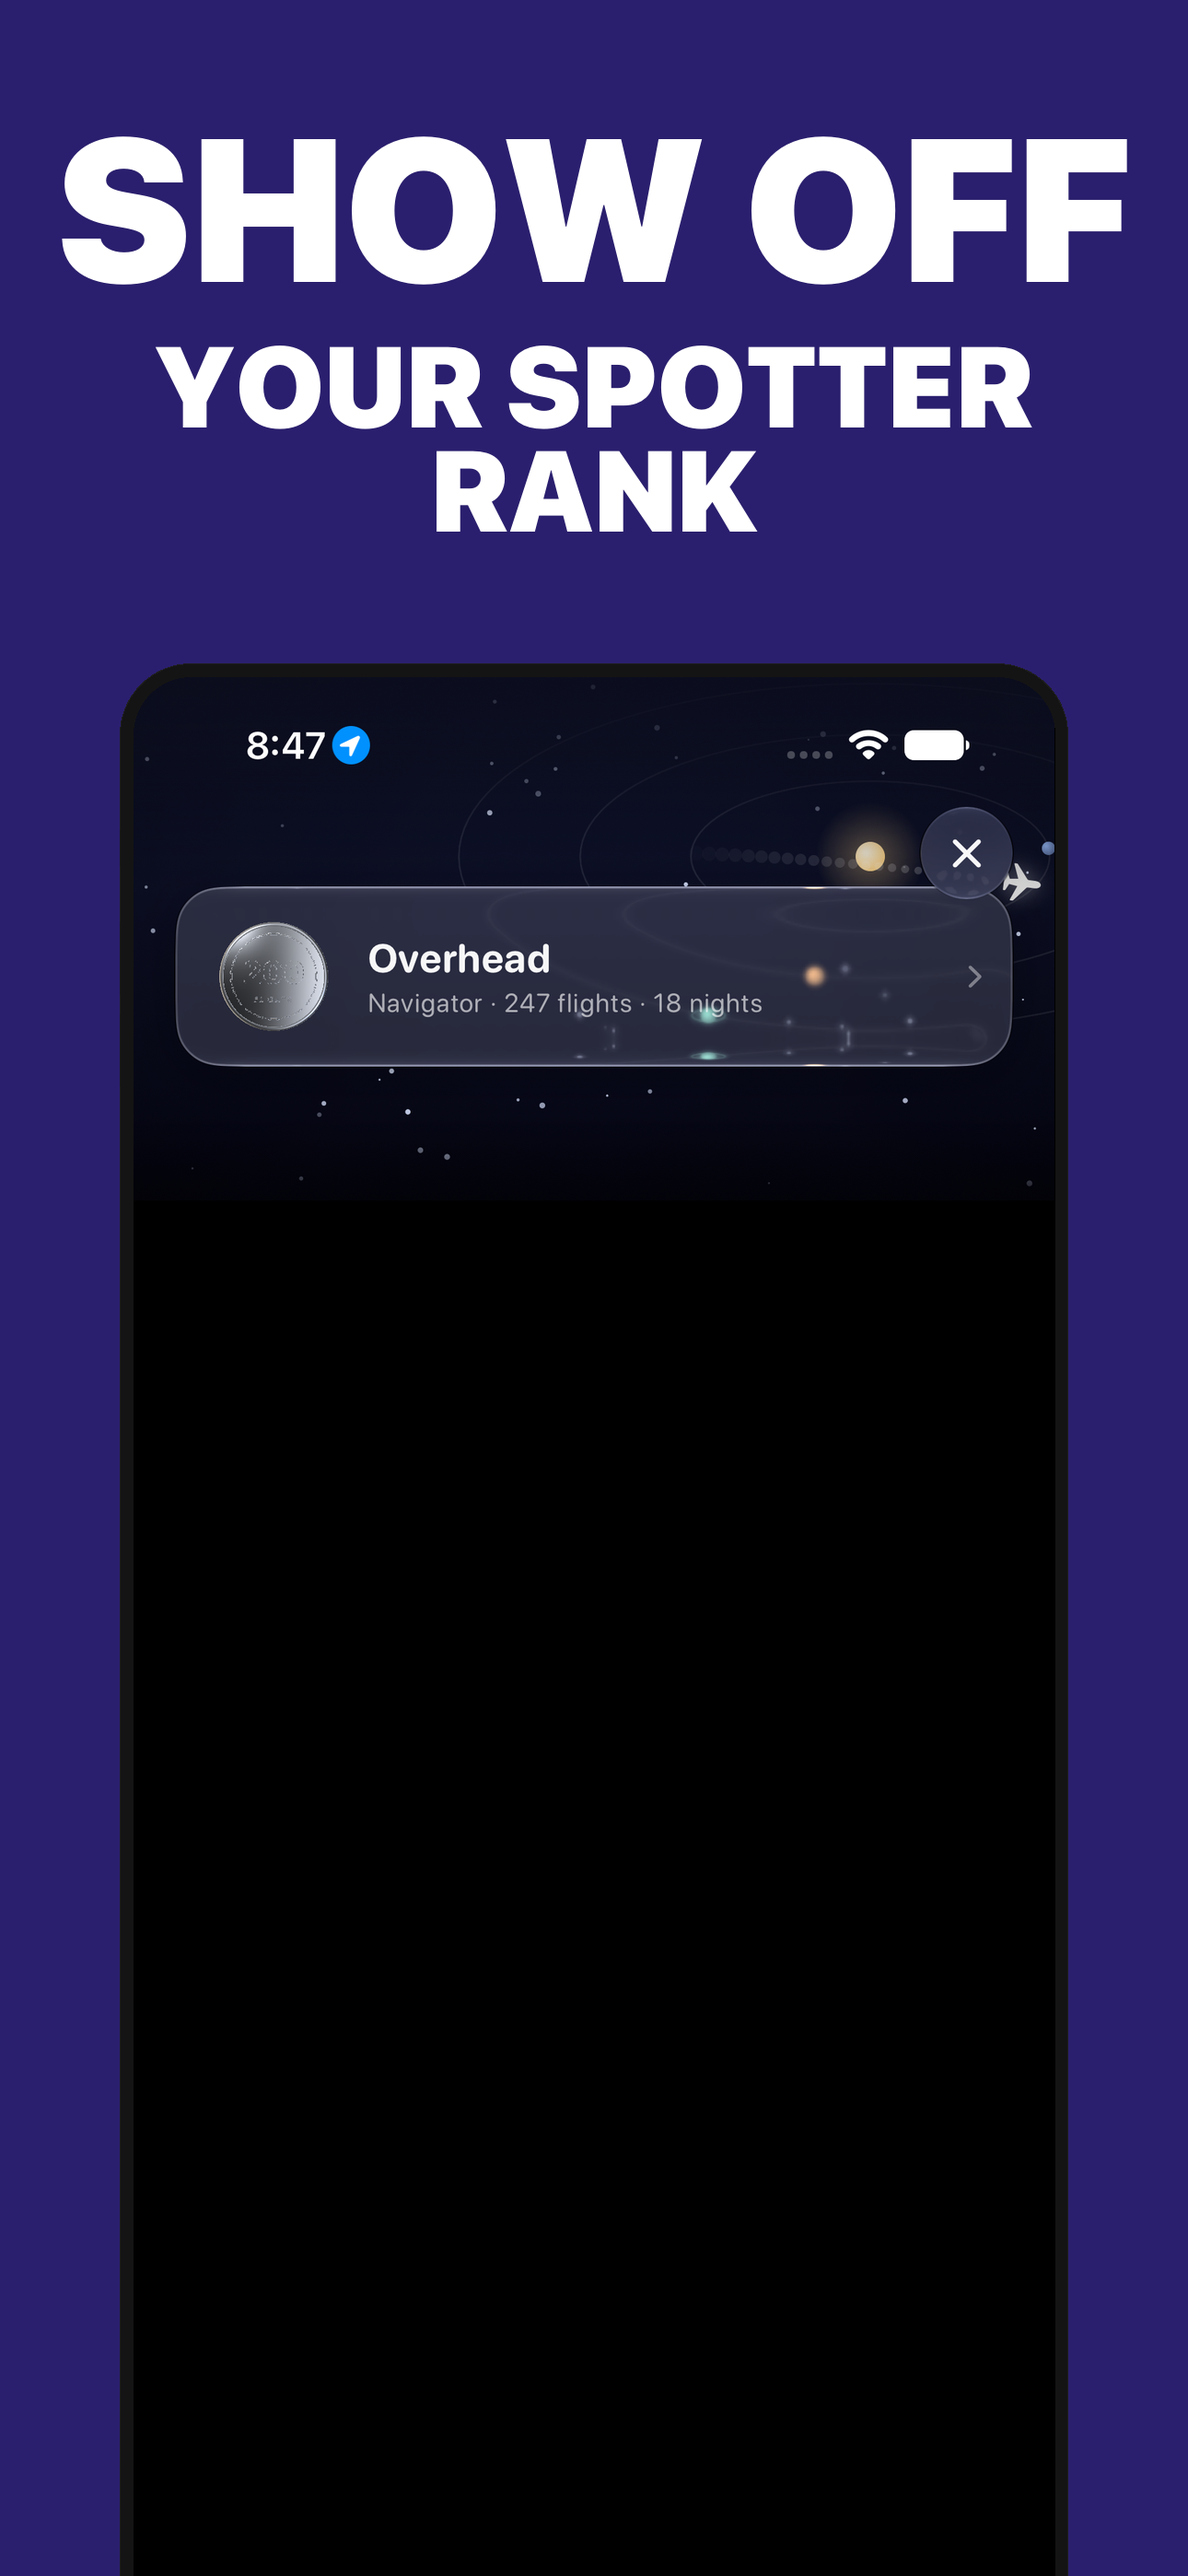
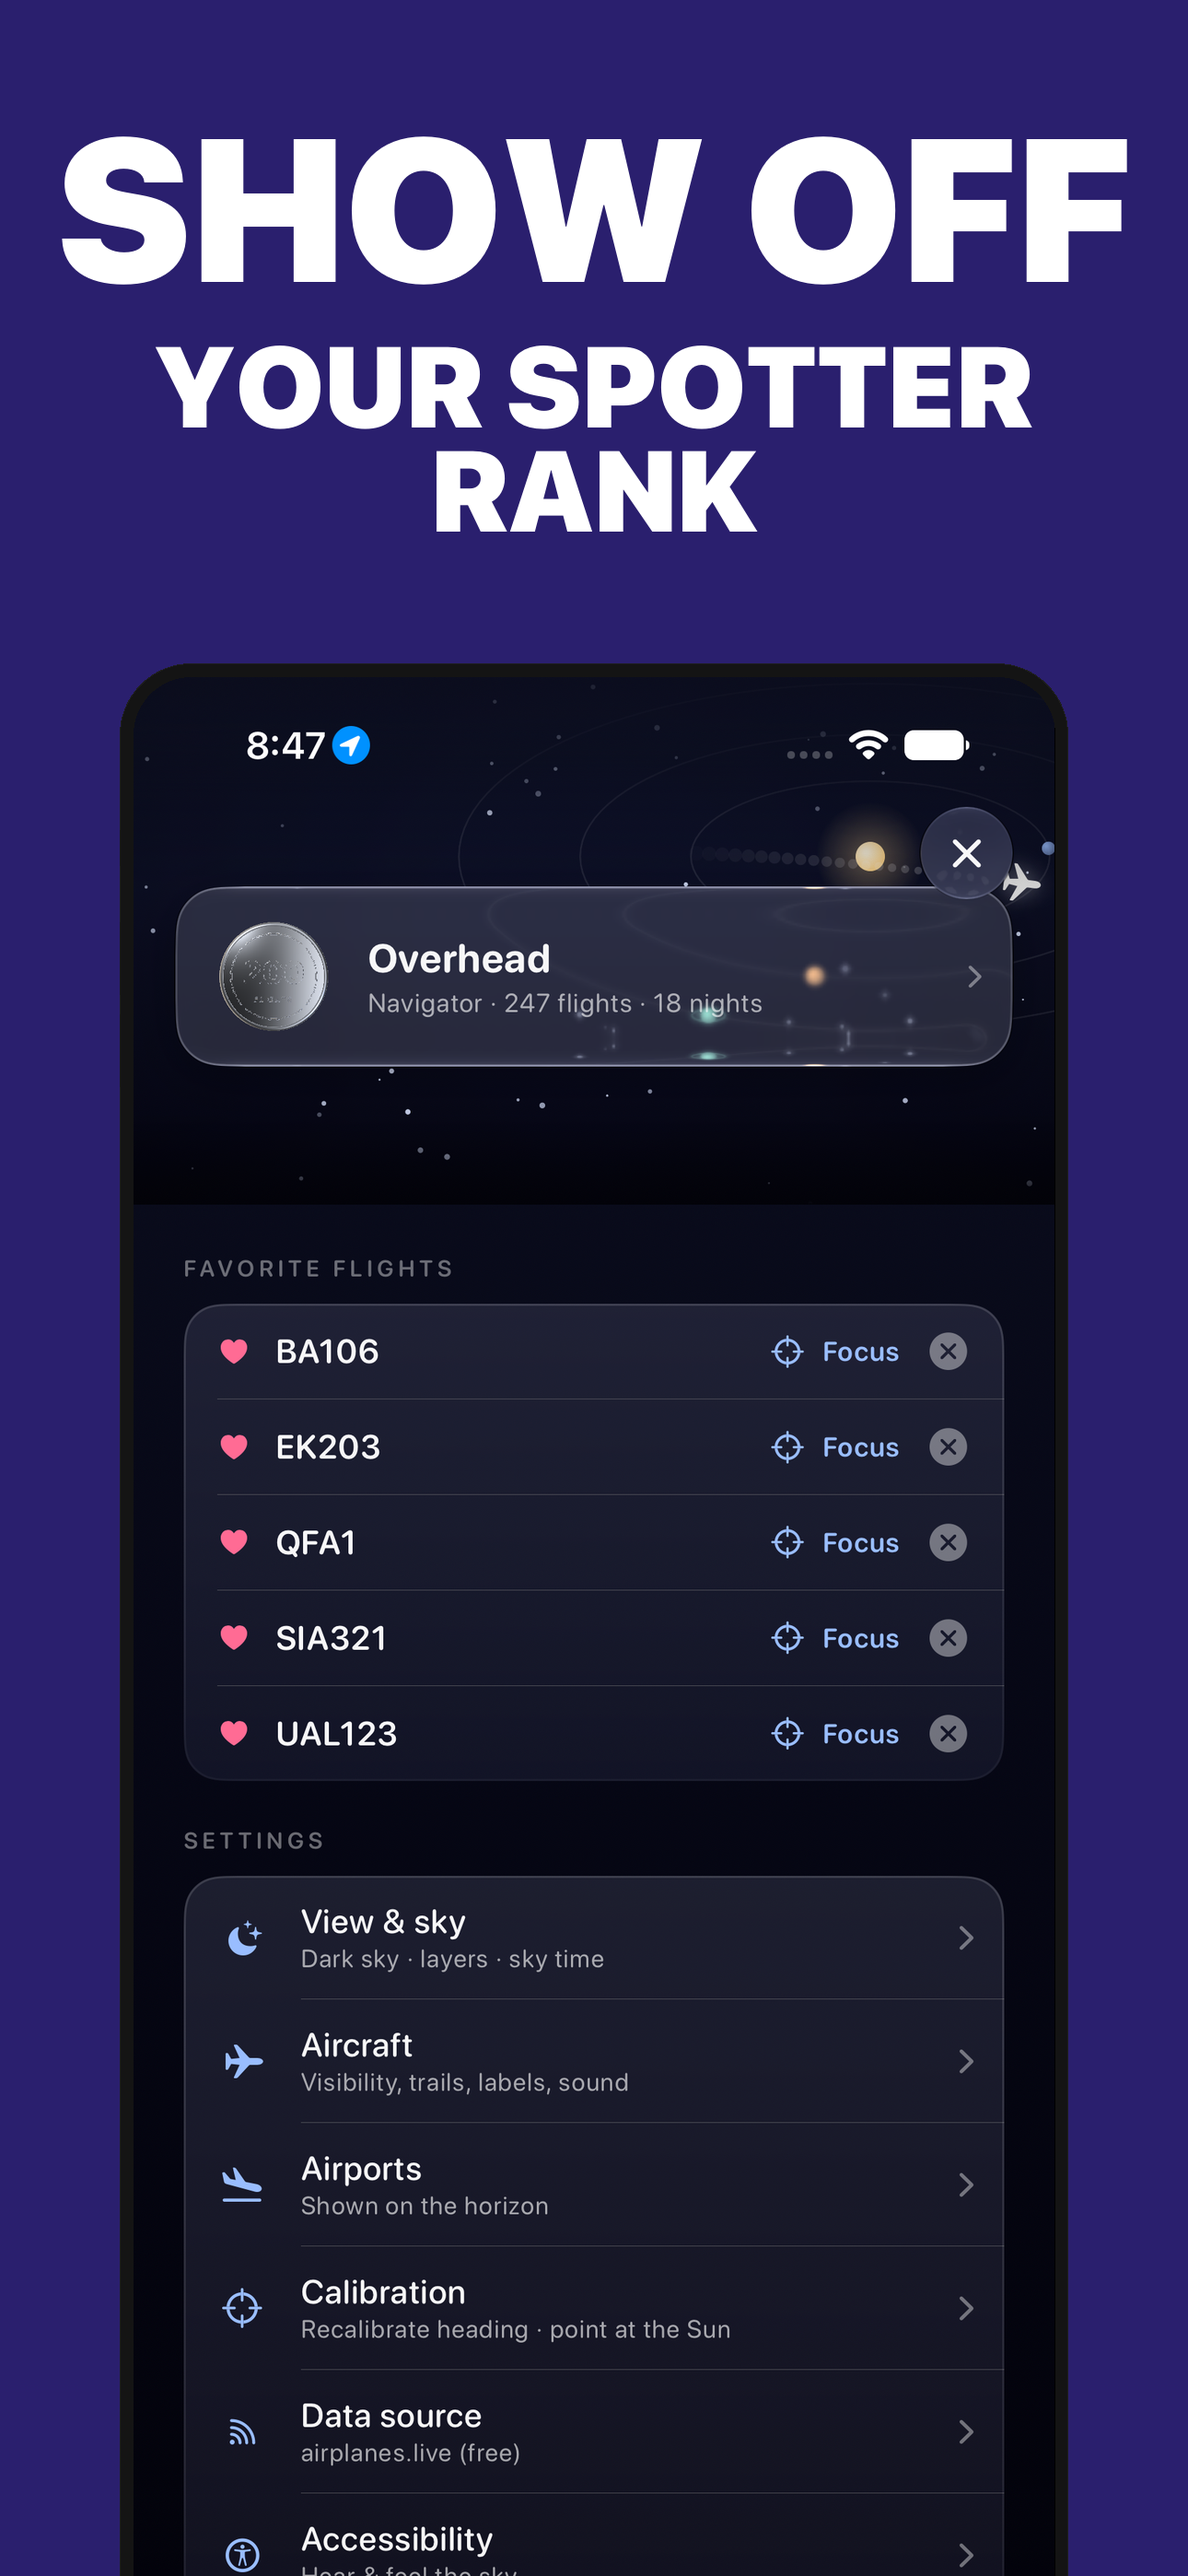
Perf: stop animating the whole sky chrome on every selection data tick
Time Profiler on device (45 s of plane-detail taps) showed the main
thread dominated by SwiftUI layout churn — HVStack/ScrollView
sizeThatFits and ViewGraph updates over the live AR render. The
overlay's spring keyed on the whole SelectedAircraft struct, whose
distance/azimuth tick every feed update, re-animating all chrome ~1 Hz
while selected. Key on the selection identity (hex) instead.

diff --git a/Skylight AR/MedalAssembly.swift b/Skylight AR/MedalAssembly.swift
@@ -86,7 +86,10 @@ struct MedalAssembly: View {
     var body: some View {
         if !reduceMotion {
             let targets = EmblemPoints.points(for: medal)
-            let tint = MedalArt.colors(medal.finish).thumbLight
+            let tones = MedalArt.colors(medal.finish)
+            let base = Color(tones.base)
+            let light = tones.thumbLight
+            let dark = tones.thumbDark
             TimelineView(.animation) { timeline in
                 Canvas { ctx, size in
                     let start = clock.start ?? timeline.date
@@ -110,7 +113,7 @@ struct MedalAssembly: View {
                             h ^= h >> 12; h ^= h << 25; h ^= h >> 27
                             return Double((h &* 2685821657736338717) >> 40) / Double(1 << 24)
                         }
-                        let r0 = rnd(), r1 = rnd(), r2 = rnd(), r3 = rnd()
+                        let r0 = rnd(), r1 = rnd(), r2 = rnd(), r3 = rnd(), r4 = rnd()
 
                         // Target in polar form around the centre.
                         let tx = (tp.x - 0.5) * span, ty = (tp.y - 0.5) * span
@@ -148,9 +151,14 @@ struct MedalAssembly: View {
                         let a = min(u * 4, 1) * (0.35 + 0.55 * r3) * (1 - relE)
 
                         let spark = i % 5 == 0
+                        // Shadow / base / highlight in the medal's own tones —
+                        // not a flat tint — so the swarm already reads as the
+                        // disc's lit metal before the hand-off, not a mismatched
+                        // color that then cuts to the real material.
+                        let metalTone = r4 < 0.15 ? dark : (r4 < 0.75 ? base : light)
                         let s = (spark ? 1.5 : 1.1) + r2 * 1.8
                         ctx.fill(Path(ellipseIn: CGRect(x: x - s / 2, y: y - s / 2, width: s, height: s)),
-                                 with: .color((spark ? Color.white : tint).opacity(a)))
+                                 with: .color((spark ? Color.white : metalTone).opacity(a)))
                     }
                 }
             }

diff --git a/Skylight AR/ARSkyScreen.swift b/Skylight AR/ARSkyScreen.swift
@@ -111,7 +111,10 @@ struct ARSkyScreen: View {
                 calibrationOverlay
             }
         }
-        .animation(.spring(response: 0.45, dampingFraction: 0.82), value: engine.selected)
+        // Key on the selection IDENTITY, not the struct: distance/azimuth
+        // fields tick every feed update, and animating the whole chrome
+        // overlay (over a live AR render) once a second is pure waste.
+        .animation(.spring(response: 0.45, dampingFraction: 0.82), value: engine.selected?.hex)
         .animation(.spring(response: 0.5, dampingFraction: 0.8), value: engine.medals.pendingReveal)
         .animation(.spring(response: 0.4, dampingFraction: 0.85), value: engine.skyTimeOffsetMin != 0)
         .animation(.easeInOut(duration: 0.25), value: engine.calibrationStep)
